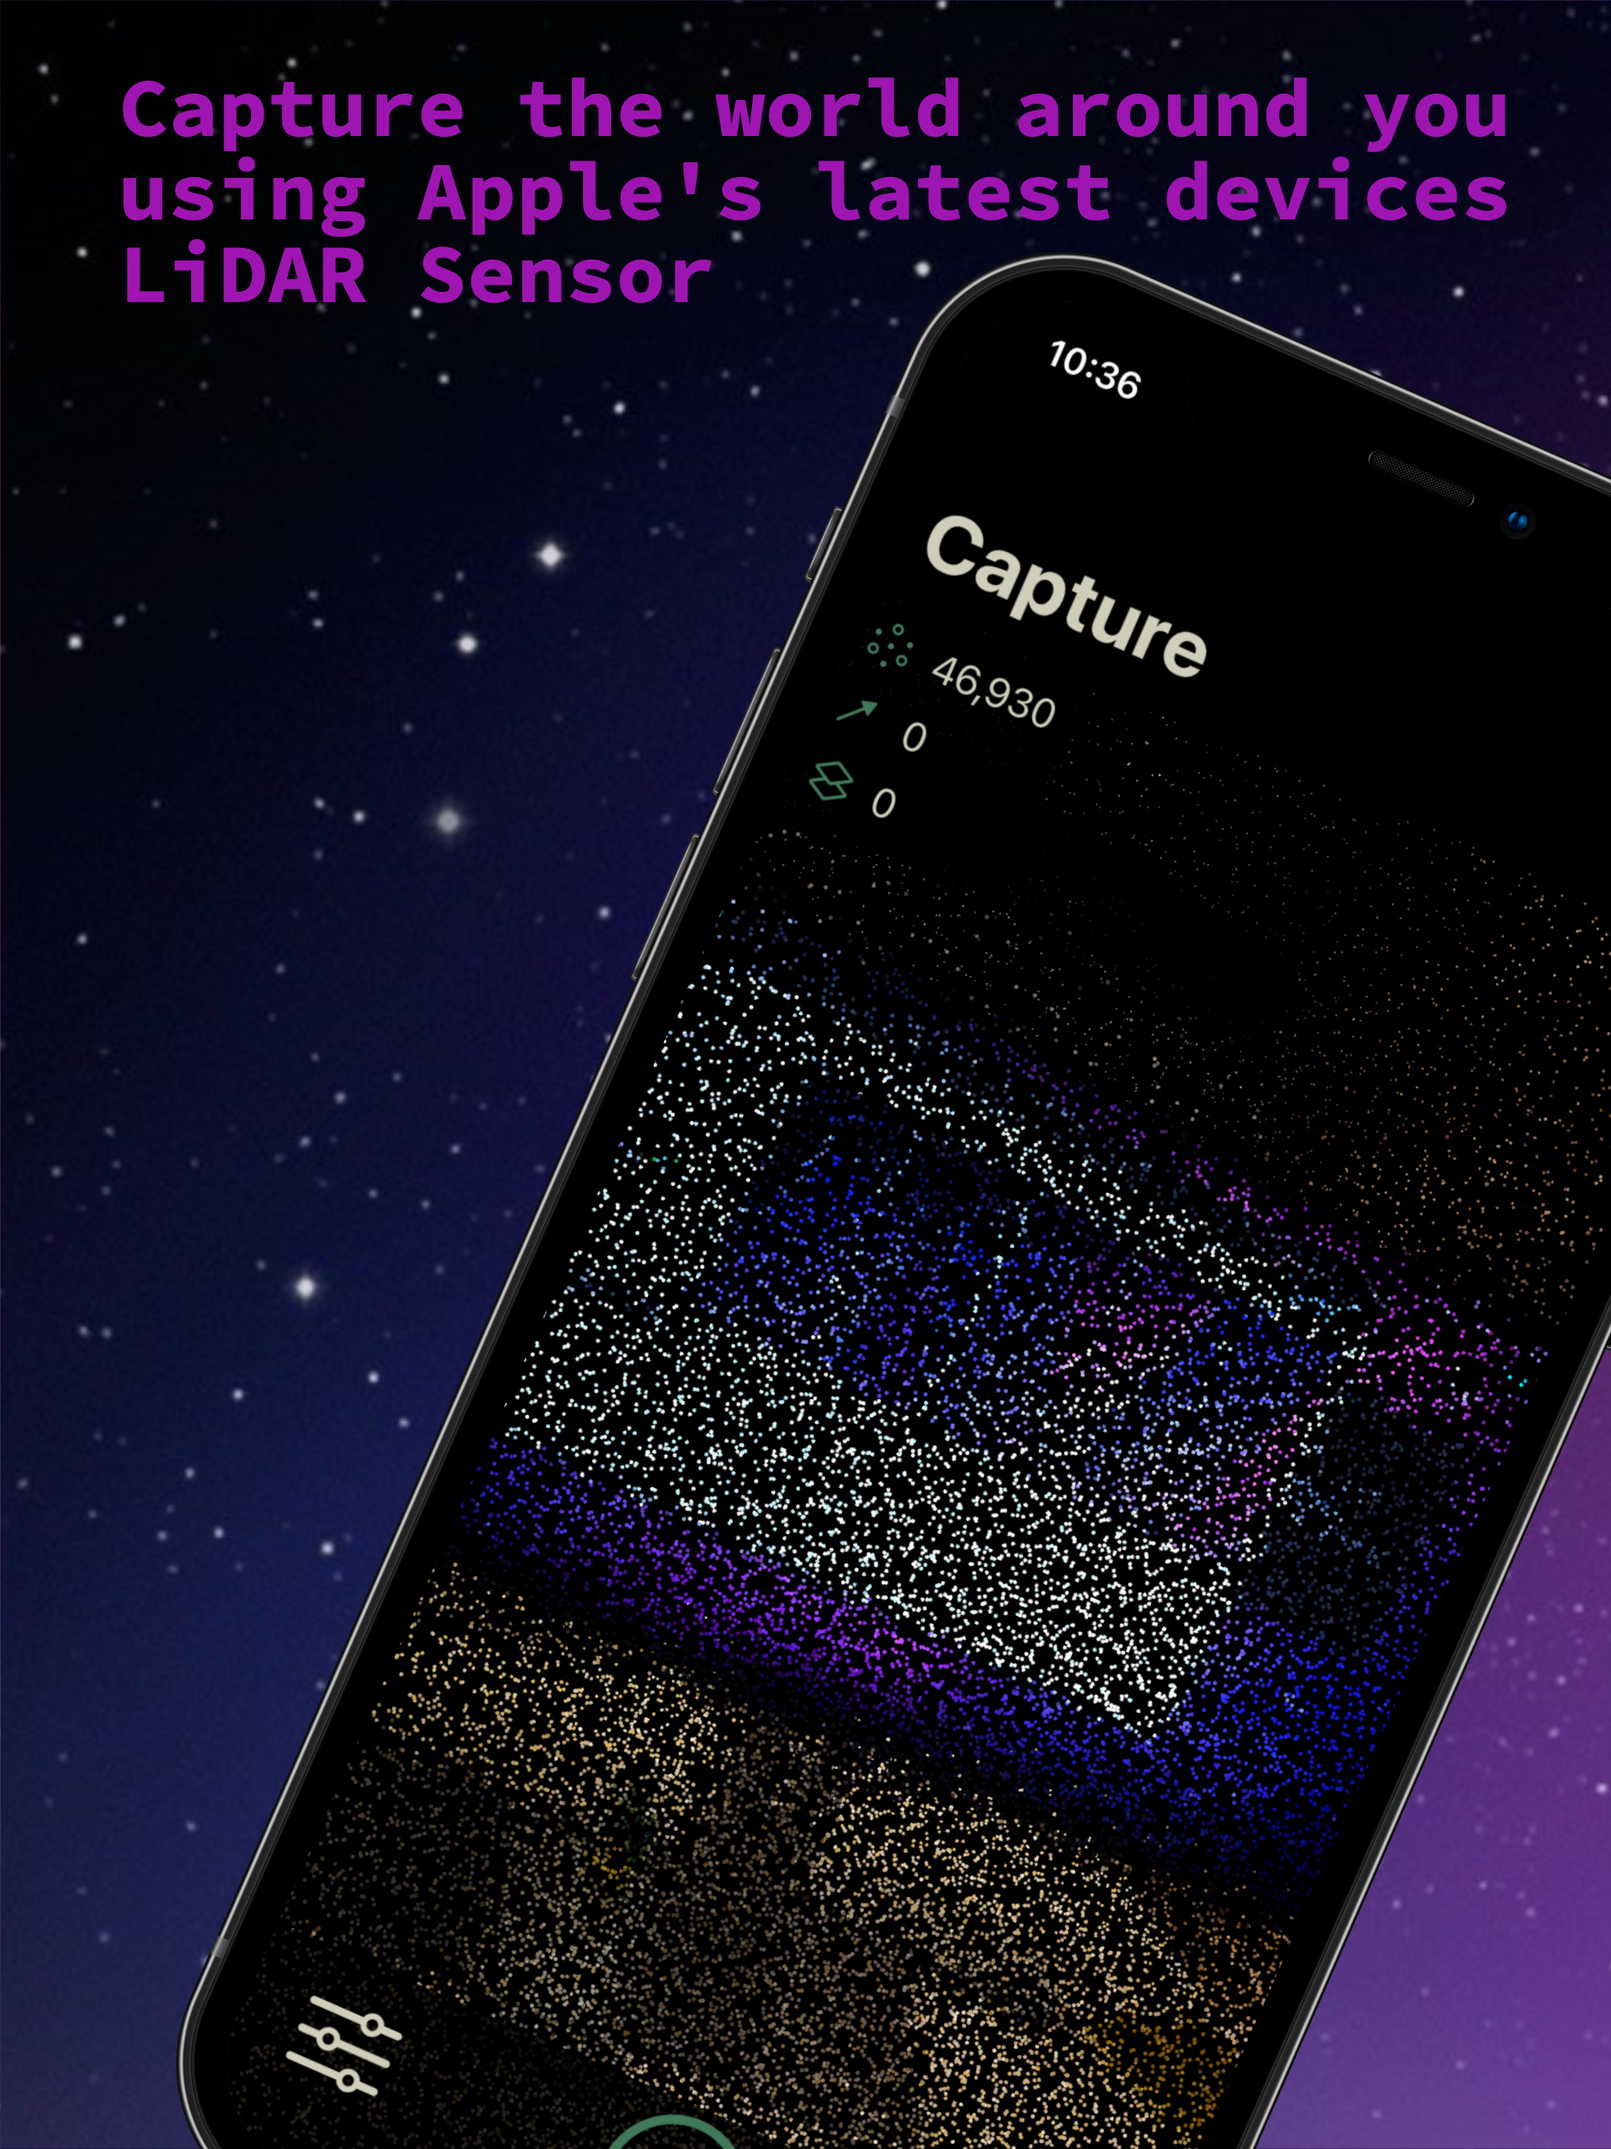
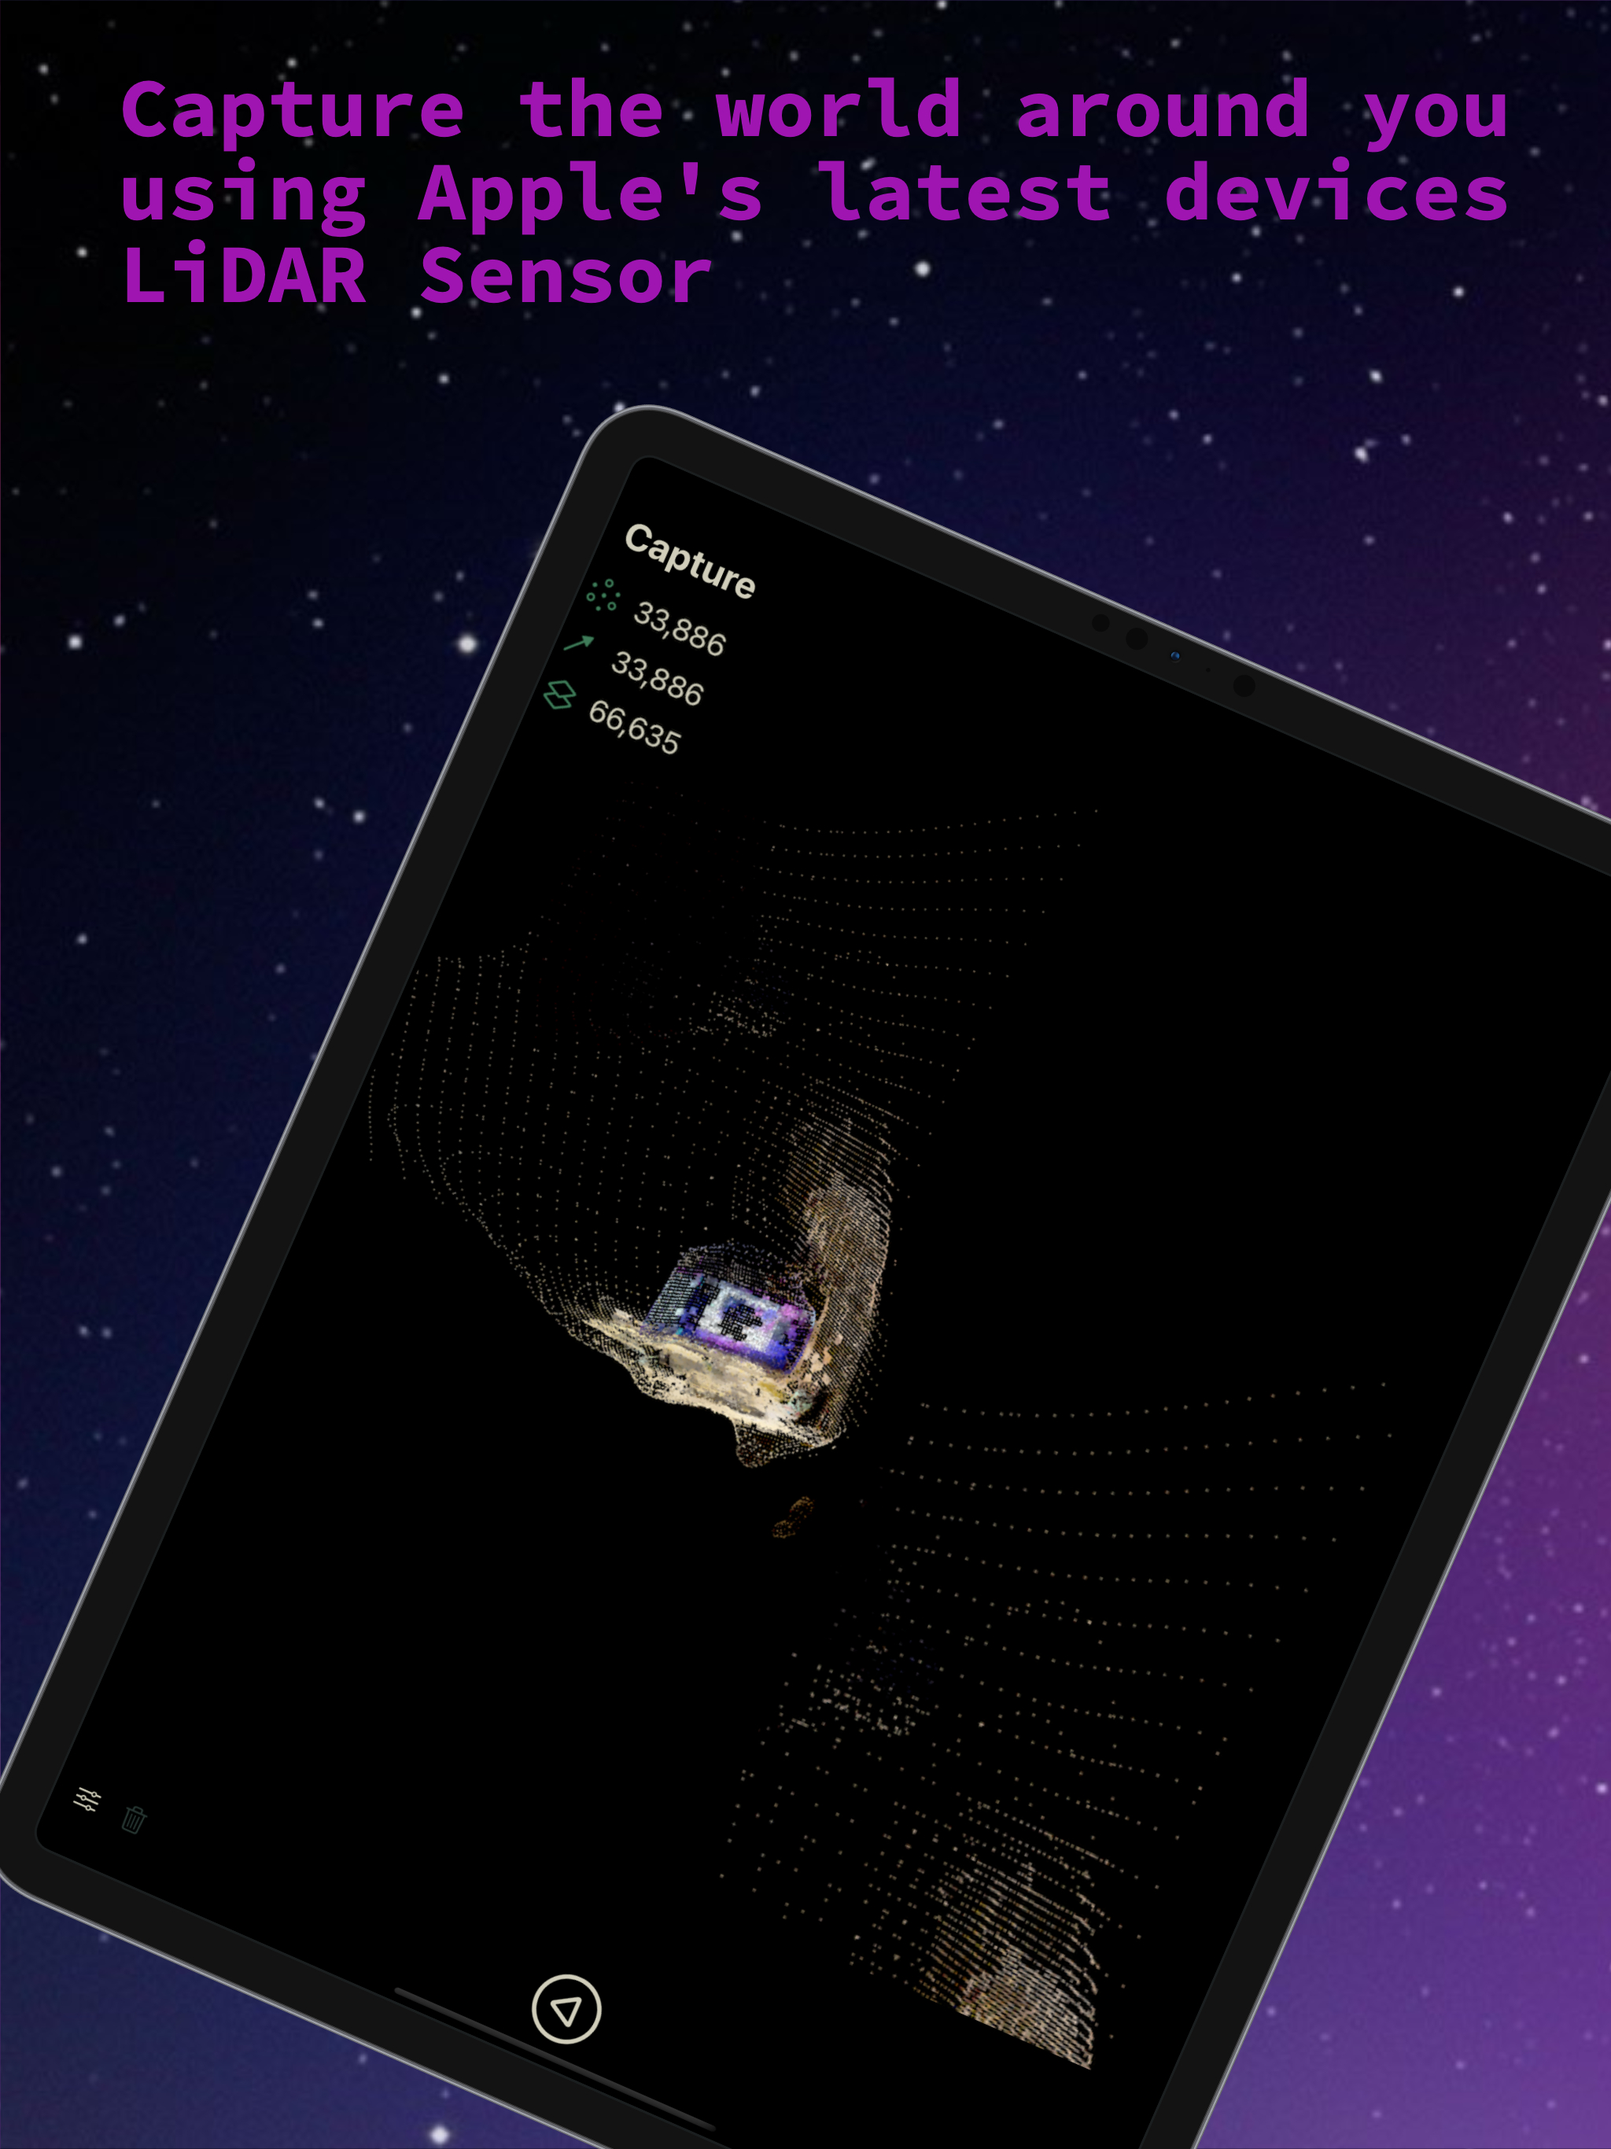
Updated project conf to follow Kewlbear appstore validation for python packages + some UI tweak for iPad + Updated screenshots + help tooltips

diff --git a/ARDemoApp/App/CaptureViewer/Subview/Controls/CaptureViewerControl.swift b/ARDemoApp/App/CaptureViewer/Subview/Controls/CaptureViewerControl.swift
@@ -10,6 +10,7 @@ import PointCloudRendererService
 import Common
 
 struct CaptureViewerControl: View {
+    @AppStorage("CaptureViewer.firstAppearance") private var firstAppearance = true
     @AppStorage(ProcessorParameters.storageKey) private var processorParameters = ProcessorParameters()
 
     @EnvironmentObject var model: CaptureViewerControlModel
@@ -20,6 +21,7 @@ struct CaptureViewerControl: View {
     let confidenceTreshold: ConfidenceTreshold
 
     @State private var showExportTypeSelection = false
+    @State private var showInformation = false
     @State private var showParameters = false
     @State private var showParameterControls = false
     @State private var showProcessorParametersEditor = false
@@ -183,7 +185,7 @@ struct CaptureViewerControl: View {
                     }, label: {
                         Label(title: { Text("Statistical O.R.").foregroundColor(.bone) },
                               icon: {
-                                Image(systemName: "camera.filters")
+                                Image(systemName: "aqi.medium")
                                     .font(.body)
                                     .foregroundColor(processorsEnabled ? .amazon : .charredBone)
                               })
@@ -203,7 +205,7 @@ struct CaptureViewerControl: View {
                     }, label: {
                         Label(title: { Text("Radius O.R.").foregroundColor(.bone) },
                               icon: {
-                                Image(systemName: "aqi.medium")
+                                Image(systemName: "camera.filters")
                                     .font(.body)
                                     .foregroundColor(processorsEnabled ? .amazon : .charredBone)
                               })
@@ -267,29 +269,49 @@ struct CaptureViewerControl: View {
     var controlsSection: some View {
         HStack {
 
-            Button(action: {
-                withAnimation {
-                    showParameters.toggle()
+            HStack(spacing: 20) {
+                Button(action: {
+                    withAnimation {
+                        showParameters.toggle()
+                    }
+                }, label: {
+                    Image(systemName: "slider.horizontal.3")
+                        .font(.system(size: 42, weight: .regular))
+                        .scaleEffect(showParameters ? 0.9 : 1)
+                        .foregroundColor(showParameters ? .amazon : .bone)
+                })
+
+                Button(action: {
+                    withAnimation {
+                        showInformation = true
+                    }
+                }, label: {
+                    Image(systemName: "info.circle")
+                        .font(.title)
+                        .foregroundColor(.bone)
+                })
+                .alert(isPresented: $showInformation) {
+                    Alert(title: Text("Processing and export"),
+                          message: Text("The Viewer allows you to navigate in your capture and further denoise/enhance it using on device processing! \nNo more uploading your surroundings to the cloud and waiting hours for processing, this app respect your privacy and cannot be compromised.\n Once satisfied, the right bottom export allow you to save your capture on your phone and share it to the world."),
+                          dismissButton: .default(Text("Got it!")))
                 }
-            }, label: {
-                Image(systemName: "slider.horizontal.3")
-                    .font(.system(size: 42, weight: .regular))
-                    .scaleEffect(showParameters ? 0.9 : 1)
-                    .foregroundColor(showParameters ? .amazon : .bone)
-            })
+            }
 
             Spacer()
 
             Button(action: {
-                withAnimation {
-                    showExportTypeSelection = true
-                }
-            }, label: {
-                Image(systemName: "square.and.arrow.up")
-                    .font(.system(size: 42, weight: .regular))
-                    .foregroundColor(showParameters || processing ? .charredBone : .bone)
-            })
-            .disabled(showParameters || processing)
+                    withAnimation {
+                        showExportTypeSelection = true
+                    }
+                }, label: {
+                    Image(systemName: "square.and.arrow.down")
+                        .font(.system(size: 42, weight: .regular))
+                        .foregroundColor(showParameters || processing ? .charredBone : .bone)
+                })
+                .disabled(showParameters || processing)
+
+                // Add a share button
+
         }
     }
 
@@ -339,12 +361,17 @@ struct CaptureViewerControl: View {
                     .padding(.horizontal, 20)
             }
         }
-        .background(Color.black.opacity(0.8))
         .actionSheet(isPresented: $showExportTypeSelection) { exportActionSheet }
         .fileExporter(isPresented: $exportPLY,
                       document: model.exportService.generatePLYFile(from: object),
                       contentType: .polygon,
                       onCompletion: { _ in })
+        .onAppear {
+            if firstAppearance {
+                showInformation = true
+                firstAppearance = false
+            }
+        }
         .onDisappear {
             model.cancellables.forEach { cancellable in cancellable.cancel() }
         }

diff --git a/ARDemoApp/App/Capture/Subviews/CaptureControl.swift b/ARDemoApp/App/Capture/Subviews/CaptureControl.swift
@@ -11,6 +11,7 @@ import Common
 import PointCloudRendererService
 
 struct CaptureControl: View {
+    @AppStorage("Capture.firstAppearance") private var firstAppearance = true
 
     // MARK: - Bindings
 
@@ -24,6 +25,7 @@ struct CaptureControl: View {
     // MARK: - State
 
     @State private var showParameters: Bool = false
+    @State private var showInformation: Bool = false
     @State private var showParameterControls: Bool = false
     @State private var flashlightActive: Bool = false
     @State private var showSubParameter: Bool = false
@@ -188,20 +190,40 @@ struct CaptureControl: View {
 
             Spacer()
 
-            let navigationToCaptureViewerAllowed = !renderingService.capturing
-                && renderingService.currentPointCount != 0
-                && !showCoachingOverlay
-            Button(action: {
-                withAnimation {
-                    navigateToCaptureViewer = true
-                    renderingService.capturing = false
+            HStack(spacing: 20) {
+                let showInformationAllowed = !showCoachingOverlay
+                Button(action: {
+                    withAnimation {
+                        showInformation = true
+                        renderingService.capturing = false
+                    }
+                }, label: {
+                    Image(systemName: "info.circle")
+                        .font(.title)
+                        .foregroundColor(showInformationAllowed ? .bone : .charredBone)
+                })
+                .alert(isPresented: $showInformation) {
+                    Alert(title: Text("Capturing Point Cloud"),
+                          message: Text("This application allow you to sample the world around you using RGBD data. \nColor and Luminosity come from the Camera feed, meanwhile the new LiDAR sensor allows to capture depth information even in low light environments. \nThis app combine these informations each frame to generate vertices and then process them in the next screen (The Cube button below). \nIn order to get new data, move the phone around!"),
+                          dismissButton: .default(Text("Got it!"), action: { renderingService.capturing = true }))
                 }
-            }, label: {
-                Image(systemName: "cube.transparent")
-                    .font(.title)
-                    .foregroundColor(navigationToCaptureViewerAllowed ? .amazon : .charredBone)
-            })
-            .disabled(!navigationToCaptureViewerAllowed)
+                .disabled(!showInformationAllowed)
+
+                let navigationToCaptureViewerAllowed = renderingService.currentPointCount != 0
+                    && !showCoachingOverlay
+                    && !showInformation
+                Button(action: {
+                    withAnimation {
+                        renderingService.capturing = false
+                        navigateToCaptureViewer = true
+                    }
+                }, label: {
+                    Image(systemName: "cube.transparent")
+                        .font(.title)
+                        .foregroundColor(navigationToCaptureViewerAllowed ? .amazon : .charredBone)
+                })
+                .disabled(!navigationToCaptureViewerAllowed)
+            }
         }
     }
 
@@ -234,10 +256,17 @@ struct CaptureControl: View {
                 .transition(.moveAndFade)
 
                 Divider()
+                    .padding(.bottom, 10)
             }
 
             // Show sub controls + toogle capture + go to capture viewer
             controls
+        }
+        .onAppear {
+            if firstAppearance {
+                showInformation = true
+                firstAppearance = false
+            }
         }
     }
 }

diff --git a/ARDemoApp/App/CaptureViewer/CaptureViewer.swift b/ARDemoApp/App/CaptureViewer/CaptureViewer.swift
@@ -13,7 +13,7 @@ import SceneKit
 
 struct CaptureViewer: View {
 
-    @EnvironmentObject var model: CaptureViewerModel
+    @StateObject var model = CaptureViewerModel()
 
     let particleBuffer: ParticleBufferWrapper
     let initialCaptureParticleCount: Int
@@ -23,7 +23,6 @@ struct CaptureViewer: View {
 
     public var body: some View {
         ZStack {
-
             SceneView(scene: model.updatedScene(using: particleBuffer, particleCount: object.vertices.count),
                       pointOfView: model.cameraNode,
                       options: [.allowsCameraControl,
@@ -43,6 +42,8 @@ struct CaptureViewer: View {
                                      object: $object,
                                      confidenceTreshold: confidenceTreshold)
                     .environmentObject(model.captureViewerControlModel)
+                    .padding(.bottom, 20)
+                    .background(Color.black.opacity(0.8))
             }
 
         }
@@ -58,5 +59,6 @@ struct CaptureViewer: View {
         .onDisappear {
             model.cancellables.forEach { cancellable in cancellable.cancel() }
         }
+        .edgesIgnoringSafeArea(.bottom)
     }
 }

diff --git a/ARDemoApp/App/CaptureViewer/Subview/Controls/ProcessorParametersEditor.swift b/ARDemoApp/App/CaptureViewer/Subview/Controls/ProcessorParametersEditor.swift
@@ -71,7 +71,7 @@ struct ProcessorParametersEditor: View {
                 Label(
                     title: { Text("Statistical Outlier Removal").foregroundColor(.bone) },
                     icon: {
-                        Image(systemName: "camera.filters")
+                        Image(systemName: "aqi.medium")
                             .font(.title2)
                             .foregroundColor(.amazon)
                     }
@@ -102,7 +102,7 @@ struct ProcessorParametersEditor: View {
                 Label(
                     title: { Text("Radius Outlier Removal").foregroundColor(.bone) },
                     icon: {
-                        Image(systemName: "aqi.medium")
+                        Image(systemName: "camera.filters")
                             .font(.title2)
                             .foregroundColor(.amazon)
                     }

diff --git a/ARDemoApp/App/Capture/Capture.swift b/ARDemoApp/App/Capture/Capture.swift
@@ -47,14 +47,15 @@ struct Capture: View {
             }
             .background(Color.black)
             .statusBar(hidden: true)
-            .navigationBarTitleDisplayMode(.large)
+            .navigationBarTitleDisplayMode(.automatic)
             .navigationTitle("Capture")
             .edgesIgnoringSafeArea(.bottom)
         }
+        // For Ipad
+        .navigationViewStyle(StackNavigationViewStyle())
         .onDisappear {
             renderingService.capturing = false
         }
-        .environmentObject(CaptureViewerModel())
         .environmentObject(renderingService)
     }
 }

diff --git a/ARDemoApp/App/ARDemoApp.swift b/ARDemoApp/App/ARDemoApp.swift
@@ -22,6 +22,7 @@ struct ARDemoApp: App {
 
         UINavigationBar.appearance().largeTitleTextAttributes = [.foregroundColor: UIColor(Color.bone)]
         UINavigationBar.appearance().titleTextAttributes = [.foregroundColor: UIColor(Color.bone)]
+        UINavigationBar.appearance().isTranslucent = true
 
         #if !targetEnvironment(simulator)
         guard ARWorldTrackingConfiguration.isSupported else {

diff --git a/ARDemoApp/App/Capture/Subviews/Metrics.swift b/ARDemoApp/App/Capture/Subviews/Metrics.swift
@@ -49,10 +49,12 @@ struct Metrics: View {
             .padding(.vertical, 10)
             .padding(.horizontal, 10)
             .background(Color.black.opacity(0.8))
-            .cornerRadius(20, corners: [.bottomRight])
+            .cornerRadius(20, corners: [.allCorners])
             .clipped()
 
             Spacer()
         }
+        .padding(.top, 10)
+        .padding(.trailing, 10)
     }
 }

diff --git a/ARDemoApp/App/CaptureViewer/CaptureViewerViewModel.swift b/ARDemoApp/App/CaptureViewer/CaptureViewerViewModel.swift
@@ -71,7 +71,6 @@ final class CaptureViewerModel: ObservableObject {
     }
 }
 
-
 extension CaptureViewerModel {
 
     private static let positionVertex = ParticleBufferWrapper.Component.position
